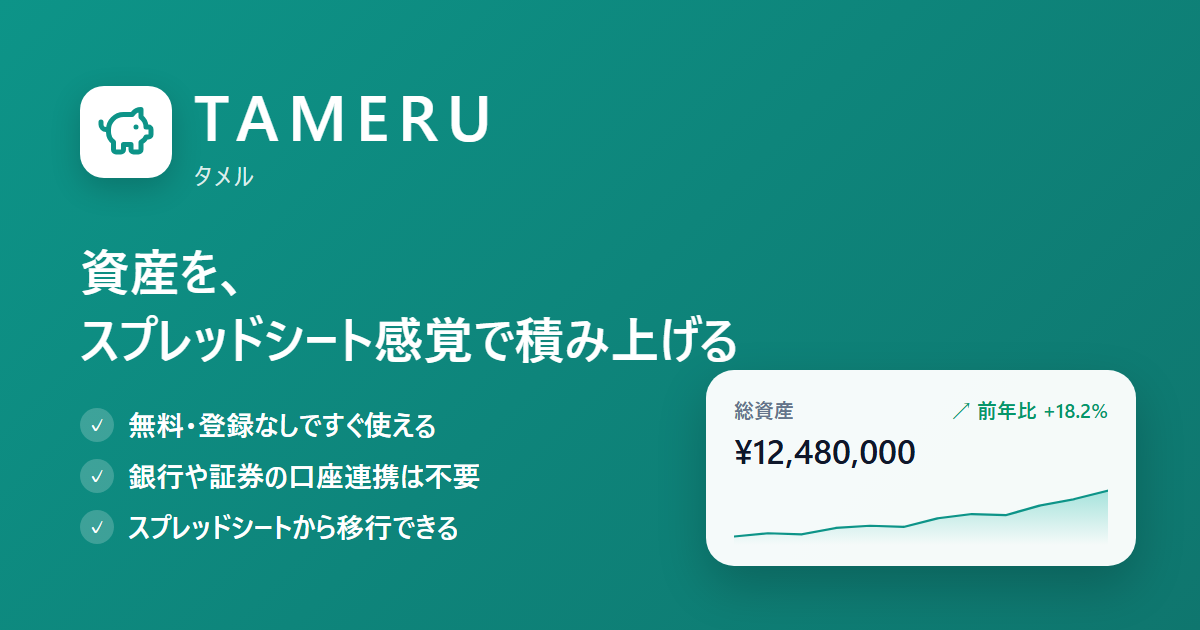
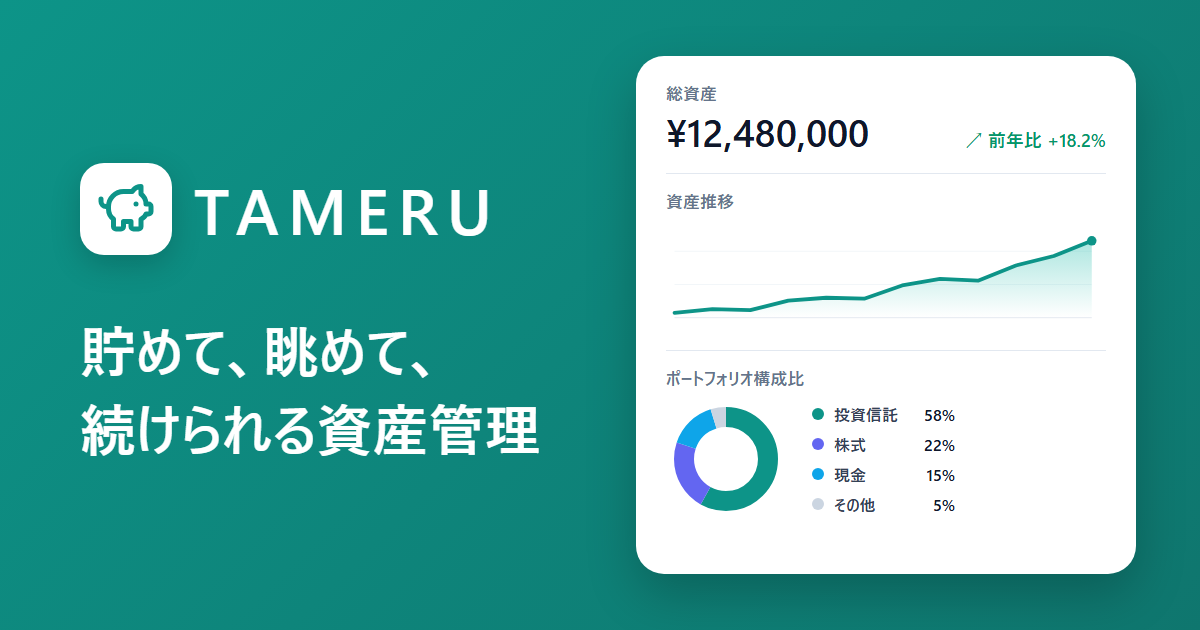
v1.0.1: サブタイトルとプレビュー画像を変更
- サブタイトルを「貯めて、眺めて、続けられる資産管理」に変更（ヘッダー・ページタイトル）
- 共有時のプレビュー画像を作り直し（総資産・資産推移・ポートフォリオ構成比を表示）
- 「（タメル）」の表記を削除（ページタイトル・ホーム画面のアプリ名・プレビュー画像）

diff --git a/scripts/og/og-image.html b/scripts/og/og-image.html
@@ -1,27 +1,59 @@
 <!doctype html><html lang="ja"><head><meta charset="utf-8"><style>
 *{margin:0;box-sizing:border-box}
 body{width:1200px;height:630px;font-family:"Yu Gothic UI","Yu Gothic","Meiryo",sans-serif;background:linear-gradient(135deg,#0d9488 0%,#0f766e 100%);color:#fff;position:relative;overflow:hidden}
-.wrap{position:absolute;inset:0;padding:72px 80px;display:flex;flex-direction:column}
+.left{position:absolute;left:80px;top:0;bottom:0;width:520px;display:flex;flex-direction:column;justify-content:center}
 .brand{display:flex;align-items:center;gap:22px}
 .logo{width:92px;height:92px;border-radius:24px;background:#fff;display:grid;place-items:center;box-shadow:0 10px 30px rgba(0,0,0,.18)}
 .name{font-size:64px;font-weight:800;letter-spacing:.14em}
-.kana{font-size:24px;opacity:.85;margin-top:2px;letter-spacing:.1em}
-.copy{margin-top:46px;font-size:50px;font-weight:700;line-height:1.35}
-.points{margin-top:34px;display:flex;flex-direction:column;gap:14px;font-size:28px;font-weight:600}
-.points div{display:flex;align-items:center;gap:14px}
-.check{width:34px;height:34px;border-radius:50%;background:rgba(255,255,255,.2);display:grid;place-items:center;font-size:20px}
-.chart{position:absolute;right:64px;bottom:64px;width:430px;height:196px;background:rgba(255,255,255,.96);border-radius:28px;box-shadow:0 20px 50px rgba(0,0,0,.2);padding:26px 28px}
-.chart .t{color:#64748b;font-size:20px;font-weight:600}
-.chart .v{color:#0f172a;font-size:34px;font-weight:800;margin-top:4px}
-.chart .d{position:absolute;right:28px;top:26px;color:#059669;font-size:20px;font-weight:700}
-</style></head><body><div class="wrap">
-<div class="brand"><div class="logo"><svg width="60" height="60" viewBox="0 0 24 24" fill="none" stroke="#0d9488" stroke-width="2" stroke-linecap="round" stroke-linejoin="round"><path d="M11 17h3v2a1 1 0 0 0 1 1h2a1 1 0 0 0 1-1v-3a3.16 3.16 0 0 0 2-2h1a1 1 0 0 0 1-1v-2a1 1 0 0 0-1-1h-1a5 5 0 0 0-2-4V3a4 4 0 0 0-3.2 1.6l-.3.4H11a6 6 0 0 0-6 6v1a5 5 0 0 0 2 4v3a1 1 0 0 0 1 1h2a1 1 0 0 0 1-1z"/><path d="M16 10h.01"/><path d="M2 8v1a2 2 0 0 0 2 2h1"/></svg></div>
-<div><div class="name">TAMERU</div><div class="kana">タメル</div></div></div>
-<div class="copy">資産を、<br>スプレッドシート感覚で積み上げる</div>
-<div class="points"><div><span class="check">✓</span>無料・登録なしですぐ使える</div><div><span class="check">✓</span>銀行や証券の口座連携は不要</div><div><span class="check">✓</span>スプレッドシートから移行できる</div></div>
+.copy{margin-top:56px;font-size:56px;font-weight:700;line-height:1.4}
+.card{position:absolute;right:64px;top:56px;bottom:56px;width:500px;background:#fff;border-radius:28px;box-shadow:0 20px 50px rgba(0,0,0,.22);padding:26px 30px;color:#0f172a}
+.label{color:#64748b;font-size:17px;font-weight:700}
+.total{display:flex;align-items:baseline;justify-content:space-between;margin-top:2px}
+.total .v{font-size:38px;font-weight:800}
+.total .d{color:#059669;font-size:18px;font-weight:700}
+.sep{height:1px;background:#e2e8f0;margin:16px 0}
+.alloc{display:flex;align-items:center;gap:26px;margin-top:10px}
+.legend{display:flex;flex-direction:column;gap:9px;font-size:16px;color:#334155;font-weight:600}
+.legend div{display:flex;align-items:center;gap:10px}
+.legend i{width:12px;height:12px;border-radius:50%;display:inline-block}
+.legend b{margin-left:auto;padding-left:16px;color:#0f172a}
+</style></head><body>
+<div class="left">
+  <div class="brand"><div class="logo"><svg width="60" height="60" viewBox="0 0 24 24" fill="none" stroke="#0d9488" stroke-width="2" stroke-linecap="round" stroke-linejoin="round"><path d="M11 17h3v2a1 1 0 0 0 1 1h2a1 1 0 0 0 1-1v-3a3.16 3.16 0 0 0 2-2h1a1 1 0 0 0 1-1v-2a1 1 0 0 0-1-1h-1a5 5 0 0 0-2-4V3a4 4 0 0 0-3.2 1.6l-.3.4H11a6 6 0 0 0-6 6v1a5 5 0 0 0 2 4v3a1 1 0 0 0 1 1h2a1 1 0 0 0 1-1z"/><path d="M16 10h.01"/><path d="M2 8v1a2 2 0 0 0 2 2h1"/></svg></div>
+  <div class="name">TAMERU</div></div>
+  <div class="copy">貯めて、眺めて、<br>続けられる資産管理</div>
 </div>
-<div class="chart"><div class="t">総資産</div><div class="v">¥12,480,000</div><div class="d">↗ 前年比 +18.2%</div>
-<svg width="374" height="64" viewBox="0 0 374 120" preserveAspectRatio="none" style="margin-top:8px"><defs><linearGradient id="a" x1="0" y1="0" x2="0" y2="1"><stop offset="0" stop-color="#14b8a6" stop-opacity=".35"/><stop offset="1" stop-color="#14b8a6" stop-opacity="0"/></linearGradient></defs>
-<path d="M0 104 L34 98 L68 100 L102 88 L136 84 L170 86 L204 70 L238 62 L272 64 L306 46 L340 34 L374 18 L374 120 L0 120Z" fill="url(#a)"/>
-<path d="M0 104 L34 98 L68 100 L102 88 L136 84 L170 86 L204 70 L238 62 L272 64 L306 46 L340 34 L374 18" fill="none" stroke="#0d9488" stroke-width="4" stroke-linejoin="round" stroke-linecap="round"/></svg></div>
+
+<div class="card">
+  <div class="label">総資産</div>
+  <div class="total"><span class="v">¥12,480,000</span><span class="d">↗ 前年比 +18.2%</span></div>
+  <div class="sep"></div>
+  <div class="label">資産推移</div>
+  <svg width="440" height="110" viewBox="-2 -6 450 116" style="margin-top:8px">
+    <defs><linearGradient id="a" x1="0" y1="0" x2="0" y2="1"><stop offset="0" stop-color="#14b8a6" stop-opacity=".35"/><stop offset="1" stop-color="#14b8a6" stop-opacity="0"/></linearGradient></defs>
+    <line x1="0" y1="27" x2="440" y2="27" stroke="#f1f5f9"/><line x1="0" y1="62" x2="440" y2="62" stroke="#f1f5f9"/><line x1="0" y1="97" x2="440" y2="97" stroke="#e2e8f0"/>
+    <path d="M0 92 L40 88 L80 89 L120 79 L160 76 L200 77 L240 63 L280 56 L320 58 L360 42 L400 32 L440 16 L440 97 L0 97Z" fill="url(#a)"/>
+    <path d="M0 92 L40 88 L80 89 L120 79 L160 76 L200 77 L240 63 L280 56 L320 58 L360 42 L400 32 L440 16" fill="none" stroke="#0d9488" stroke-width="4" stroke-linejoin="round" stroke-linecap="round"/>
+    <circle cx="440" cy="16" r="5" fill="#0d9488"/>
+  </svg>
+  <div class="sep"></div>
+  <div class="label">ポートフォリオ構成比</div>
+  <div class="alloc">
+    <!-- ドーナツ: 投資信託 58% / 株式 22% / 現金 15% / その他 5%（円周 = 2π×42 ≈ 263.9） -->
+    <svg width="120" height="120" viewBox="0 0 120 120">
+      <g transform="rotate(-90 60 60)" fill="none" stroke-width="20">
+        <circle cx="60" cy="60" r="42" stroke="#0d9488" stroke-dasharray="153.1 263.9" stroke-dashoffset="0"/>
+        <circle cx="60" cy="60" r="42" stroke="#6366f1" stroke-dasharray="58.1 263.9" stroke-dashoffset="-153.1"/>
+        <circle cx="60" cy="60" r="42" stroke="#0ea5e9" stroke-dasharray="39.6 263.9" stroke-dashoffset="-211.2"/>
+        <circle cx="60" cy="60" r="42" stroke="#cbd5e1" stroke-dasharray="13.2 263.9" stroke-dashoffset="-250.8"/>
+      </g>
+    </svg>
+    <div class="legend">
+      <div><i style="background:#0d9488"></i>投資信託<b>58%</b></div>
+      <div><i style="background:#6366f1"></i>株式<b>22%</b></div>
+      <div><i style="background:#0ea5e9"></i>現金<b>15%</b></div>
+      <div><i style="background:#cbd5e1"></i>その他<b>5%</b></div>
+    </div>
+  </div>
+</div>
 </body></html>

diff --git a/src/components/Header.tsx b/src/components/Header.tsx
@@ -22,7 +22,7 @@ export function Header({ right }: HeaderProps) {
           </div>
           <div className="leading-tight">
             <h1 className="text-lg font-bold tracking-[0.12em] text-slate-900">TAMERU</h1>
-            <p className="hidden text-[11px] text-slate-500 sm:block">資産を、スプレッドシート感覚で積み上げる</p>
+            <p className="hidden text-[11px] text-slate-500 sm:block">貯めて、眺めて、続けられる資産管理</p>
           </div>
         </div>
         <div className="flex items-center justify-end gap-2.5">

diff --git a/src/app/layout.tsx b/src/app/layout.tsx
@@ -15,7 +15,7 @@ const geistMono = Geist_Mono({
   subsets: ["latin"],
 });
 
-const TITLE = "TAMERU（タメル）| スプレッドシート感覚の資産管理";
+const TITLE = "TAMERU | 貯めて、眺めて、続けられる資産管理";
 const DESCRIPTION =
   "口座連携不要・無料で使える資産管理アプリ。毎月の資産を記録して、推移と内訳をグラフで確認。スプレッドシートからの移行も簡単です。";
 

diff --git a/src/app/manifest.ts b/src/app/manifest.ts
@@ -3,7 +3,7 @@ import type { MetadataRoute } from "next";
 export default function manifest(): MetadataRoute.Manifest {
   return {
     id: "/",
-    name: "TAMERU（タメル）",
+    name: "TAMERU",
     short_name: "TAMERU",
     description: "スプレッドシート感覚で資産と推移を積み上げる、口座連携不要・プライバシー重視の資産管理アプリ",
     lang: "ja",

diff --git a/ROADMAP.md b/ROADMAP.md
@@ -13,7 +13,7 @@
 | マイナー | 新しい機能を追加したとき | 0.5.1 → 0.6.0 |
 | パッチ | バグ修正・小さな調整 | 0.5.1 → 0.5.2 |
 
-これまで: 0.1 MVP / 0.2 口座＋内訳 / 0.3 PWA / 0.4 同期 / 0.5 編集・保存ボタン（0.5.1 で固定列の透けを修正・バージョン表示を追加、0.5.2 で Android アプリのログインを修正） / 0.6 同期の安全対策（バックアップ・説明画面。0.6.1 で自動テストを追加し、見つかった入力・保存・ログインの不具合を修正） / 0.7 編集中の元に戻す・やり直す / 0.8 スプレッドシート連携（表の出力・貼り付けで取り込み） / 0.9 ヘルプ画面（0.9.1 でスプレッドシート連携の手順に「先に口座と内訳を作る」を追加） / 0.10 プライバシーポリシー・利用規約・アクセス集計（0.10.1 でお問い合わせフォームを設定） / **1.0 ブラウザ版の一般公開**（ヘルプに iPhone 向けの案内とホーム画面への追加方法を追加、自動テストに iPhone を追加）
+これまで: 0.1 MVP / 0.2 口座＋内訳 / 0.3 PWA / 0.4 同期 / 0.5 編集・保存ボタン（0.5.1 で固定列の透けを修正・バージョン表示を追加、0.5.2 で Android アプリのログインを修正） / 0.6 同期の安全対策（バックアップ・説明画面。0.6.1 で自動テストを追加し、見つかった入力・保存・ログインの不具合を修正） / 0.7 編集中の元に戻す・やり直す / 0.8 スプレッドシート連携（表の出力・貼り付けで取り込み） / 0.9 ヘルプ画面（0.9.1 でスプレッドシート連携の手順に「先に口座と内訳を作る」を追加） / 0.10 プライバシーポリシー・利用規約・アクセス集計（0.10.1 でお問い合わせフォームを設定） / **1.0 ブラウザ版の一般公開**（ヘルプに iPhone 向けの案内とホーム画面への追加方法を追加、自動テストに iPhone を追加。1.0.1 でサブタイトルを「貯めて、眺めて、続けられる資産管理」に変更し、プレビュー画像を作り直し、「（タメル）」の表記を削除）
 
 ## ゴール
 
